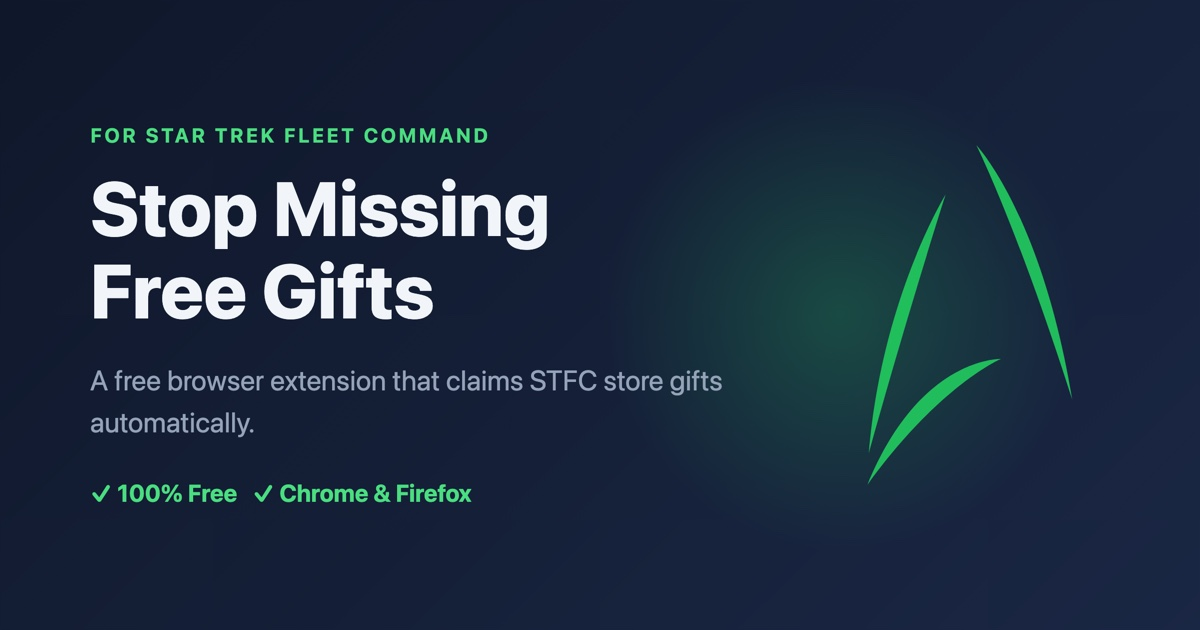
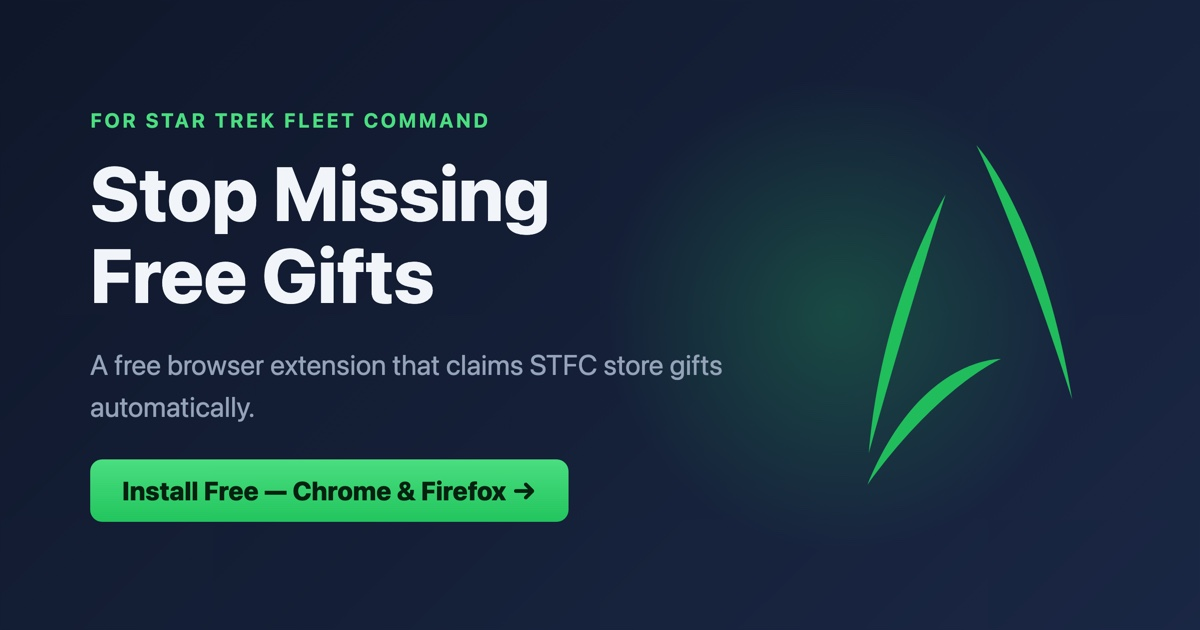
Shorten OG/Twitter descriptions and add CTA to social image
Description trimmed to 124 chars (was 159, over the ~125 char
social preview limit). OG image now includes an "Install Free"
call-to-action button per opengraph.xyz feedback.

Changed region(s): [[0.0617, 0.181, 0.4625, 0.5127], [0.0617, 0.7238, 0.4933, 0.8444], [0.0617, 0.5429, 0.6167, 0.6937]]

diff --git a/index.html b/index.html
@@ -13,7 +13,7 @@
 <meta property="og:site_name" content="STFC Claim Free Offers">
 <meta property="og:url" content="https://stfc-autoclaim.github.io/">
 <meta property="og:title" content="STFC Claim Free Offers — Stop Missing Free Gifts">
-<meta property="og:description" content="A free browser extension that automatically claims free gifts on the Star Trek Fleet Command web store. Install it, log in, and leave the tab open — that's it.">
+<meta property="og:description" content="A free browser extension that automatically claims free gifts on the STFC web store — just install and leave the tab open.">
 <meta property="og:image" content="https://stfc-autoclaim.github.io/images/og-image.jpg">
 <meta property="og:image:width" content="1200">
 <meta property="og:image:height" content="630">
@@ -21,7 +21,7 @@
 
 <meta name="twitter:card" content="summary_large_image">
 <meta name="twitter:title" content="STFC Claim Free Offers — Stop Missing Free Gifts">
-<meta name="twitter:description" content="A free browser extension that automatically claims free gifts on the Star Trek Fleet Command web store.">
+<meta name="twitter:description" content="A free browser extension that automatically claims free gifts on the STFC web store — just install and leave the tab open.">
 <meta name="twitter:image" content="https://stfc-autoclaim.github.io/images/og-image.jpg">
 <style>
   :root {
